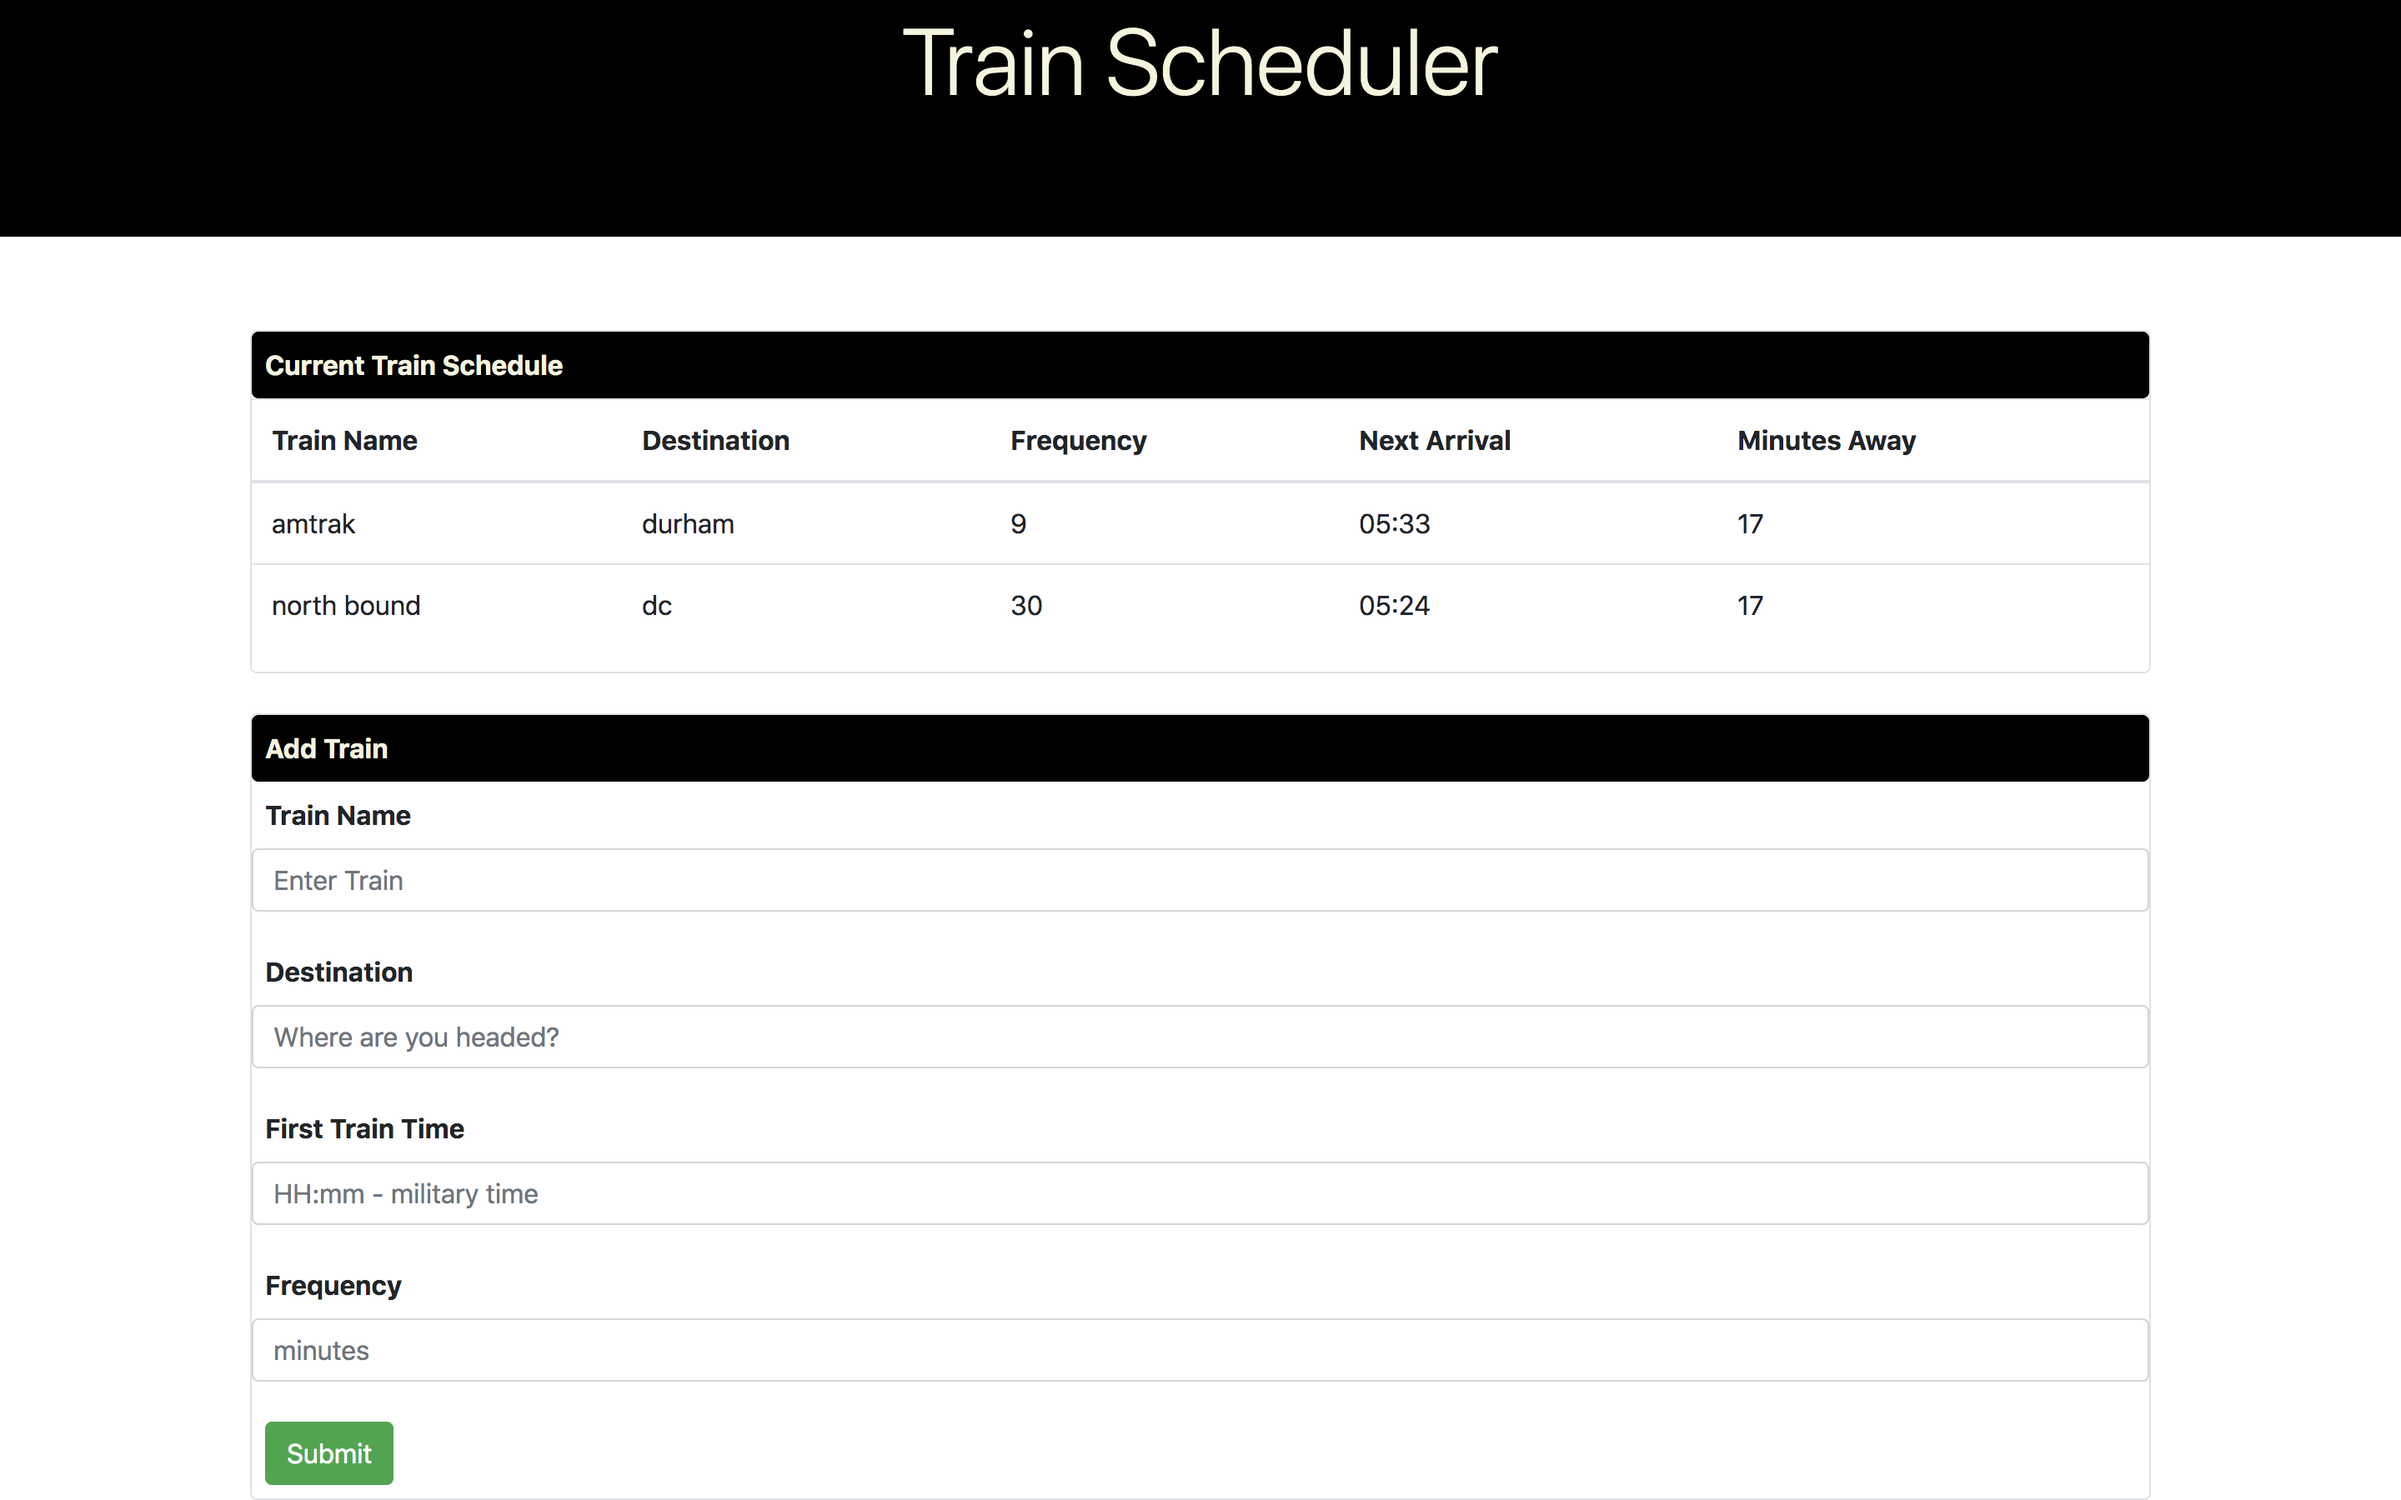
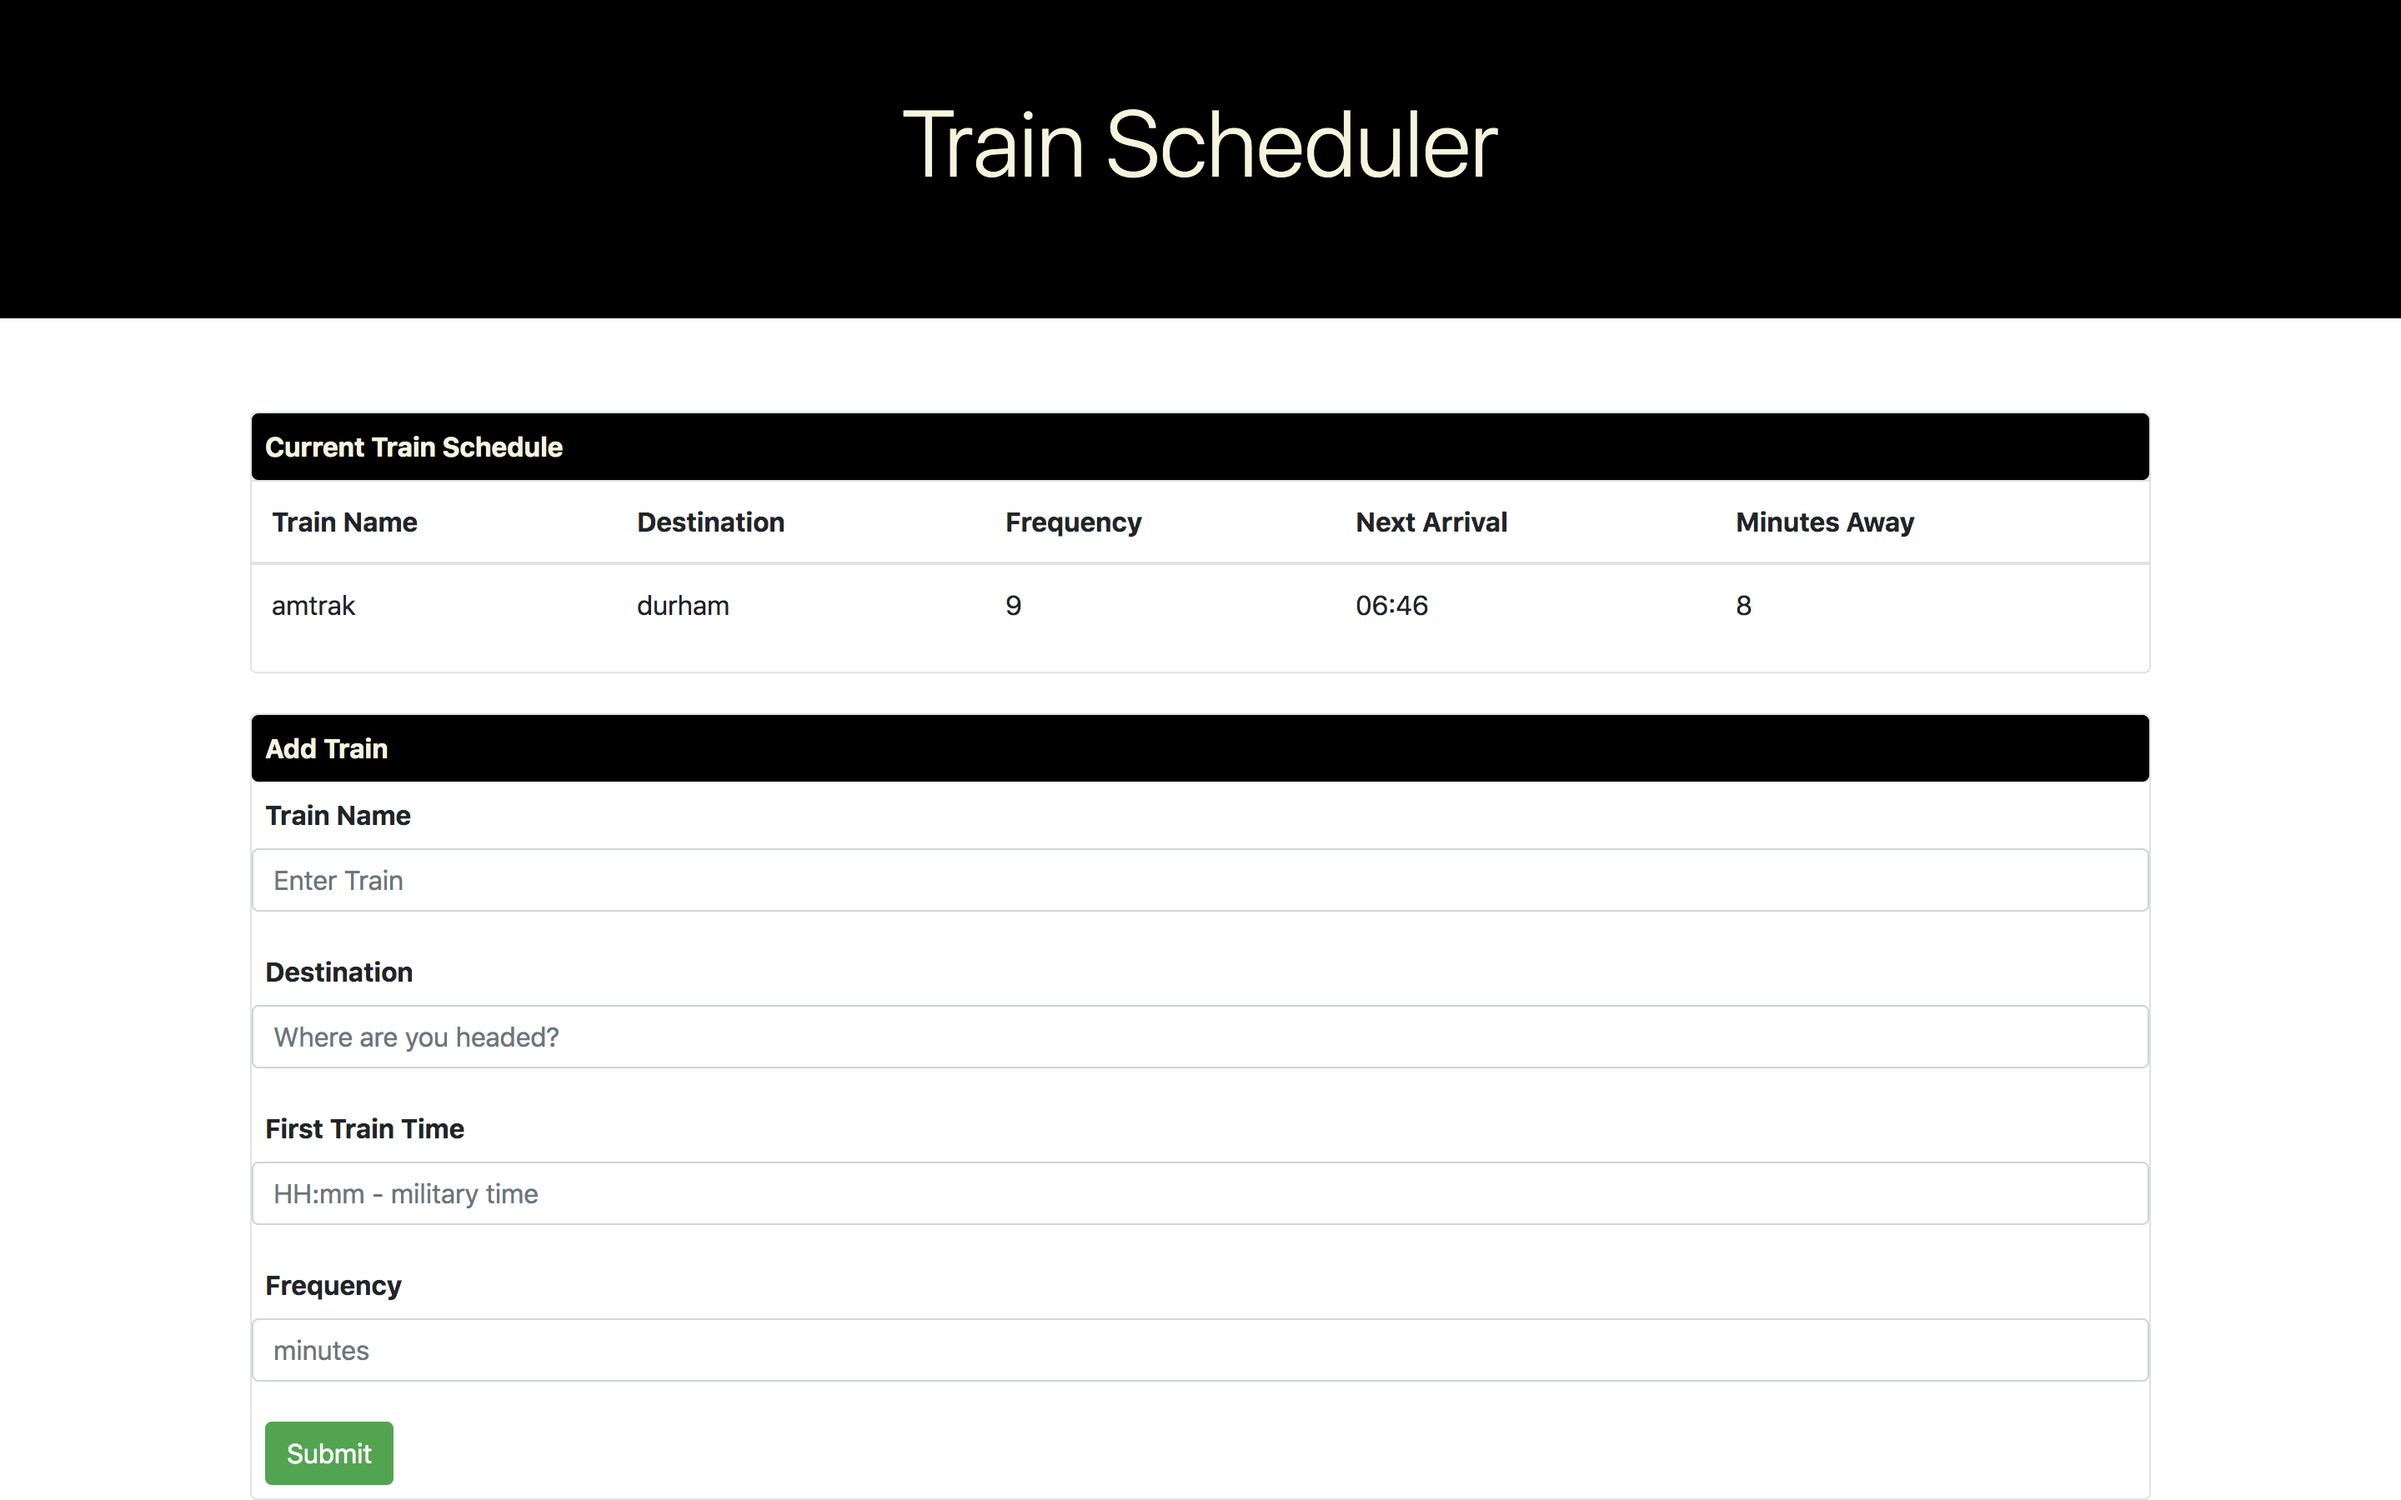
added shotTwo to readme

Changed region(s): [[0.0, 0.1556, 1.0, 0.4356], [0.375, 0.0, 0.625, 0.1244]]

diff --git a/README.md b/README.md
@@ -5,3 +5,8 @@
 To use this application, simply add a train and hit the submit button. 
 
 ![shotOne](assets/images/shotOne.png)
+
+# Demonstration
+Here is a screen shot just after I've added a new train, just before I hit the submit button.
+
+![shotTwo](assets/images/shotTwo.png)
